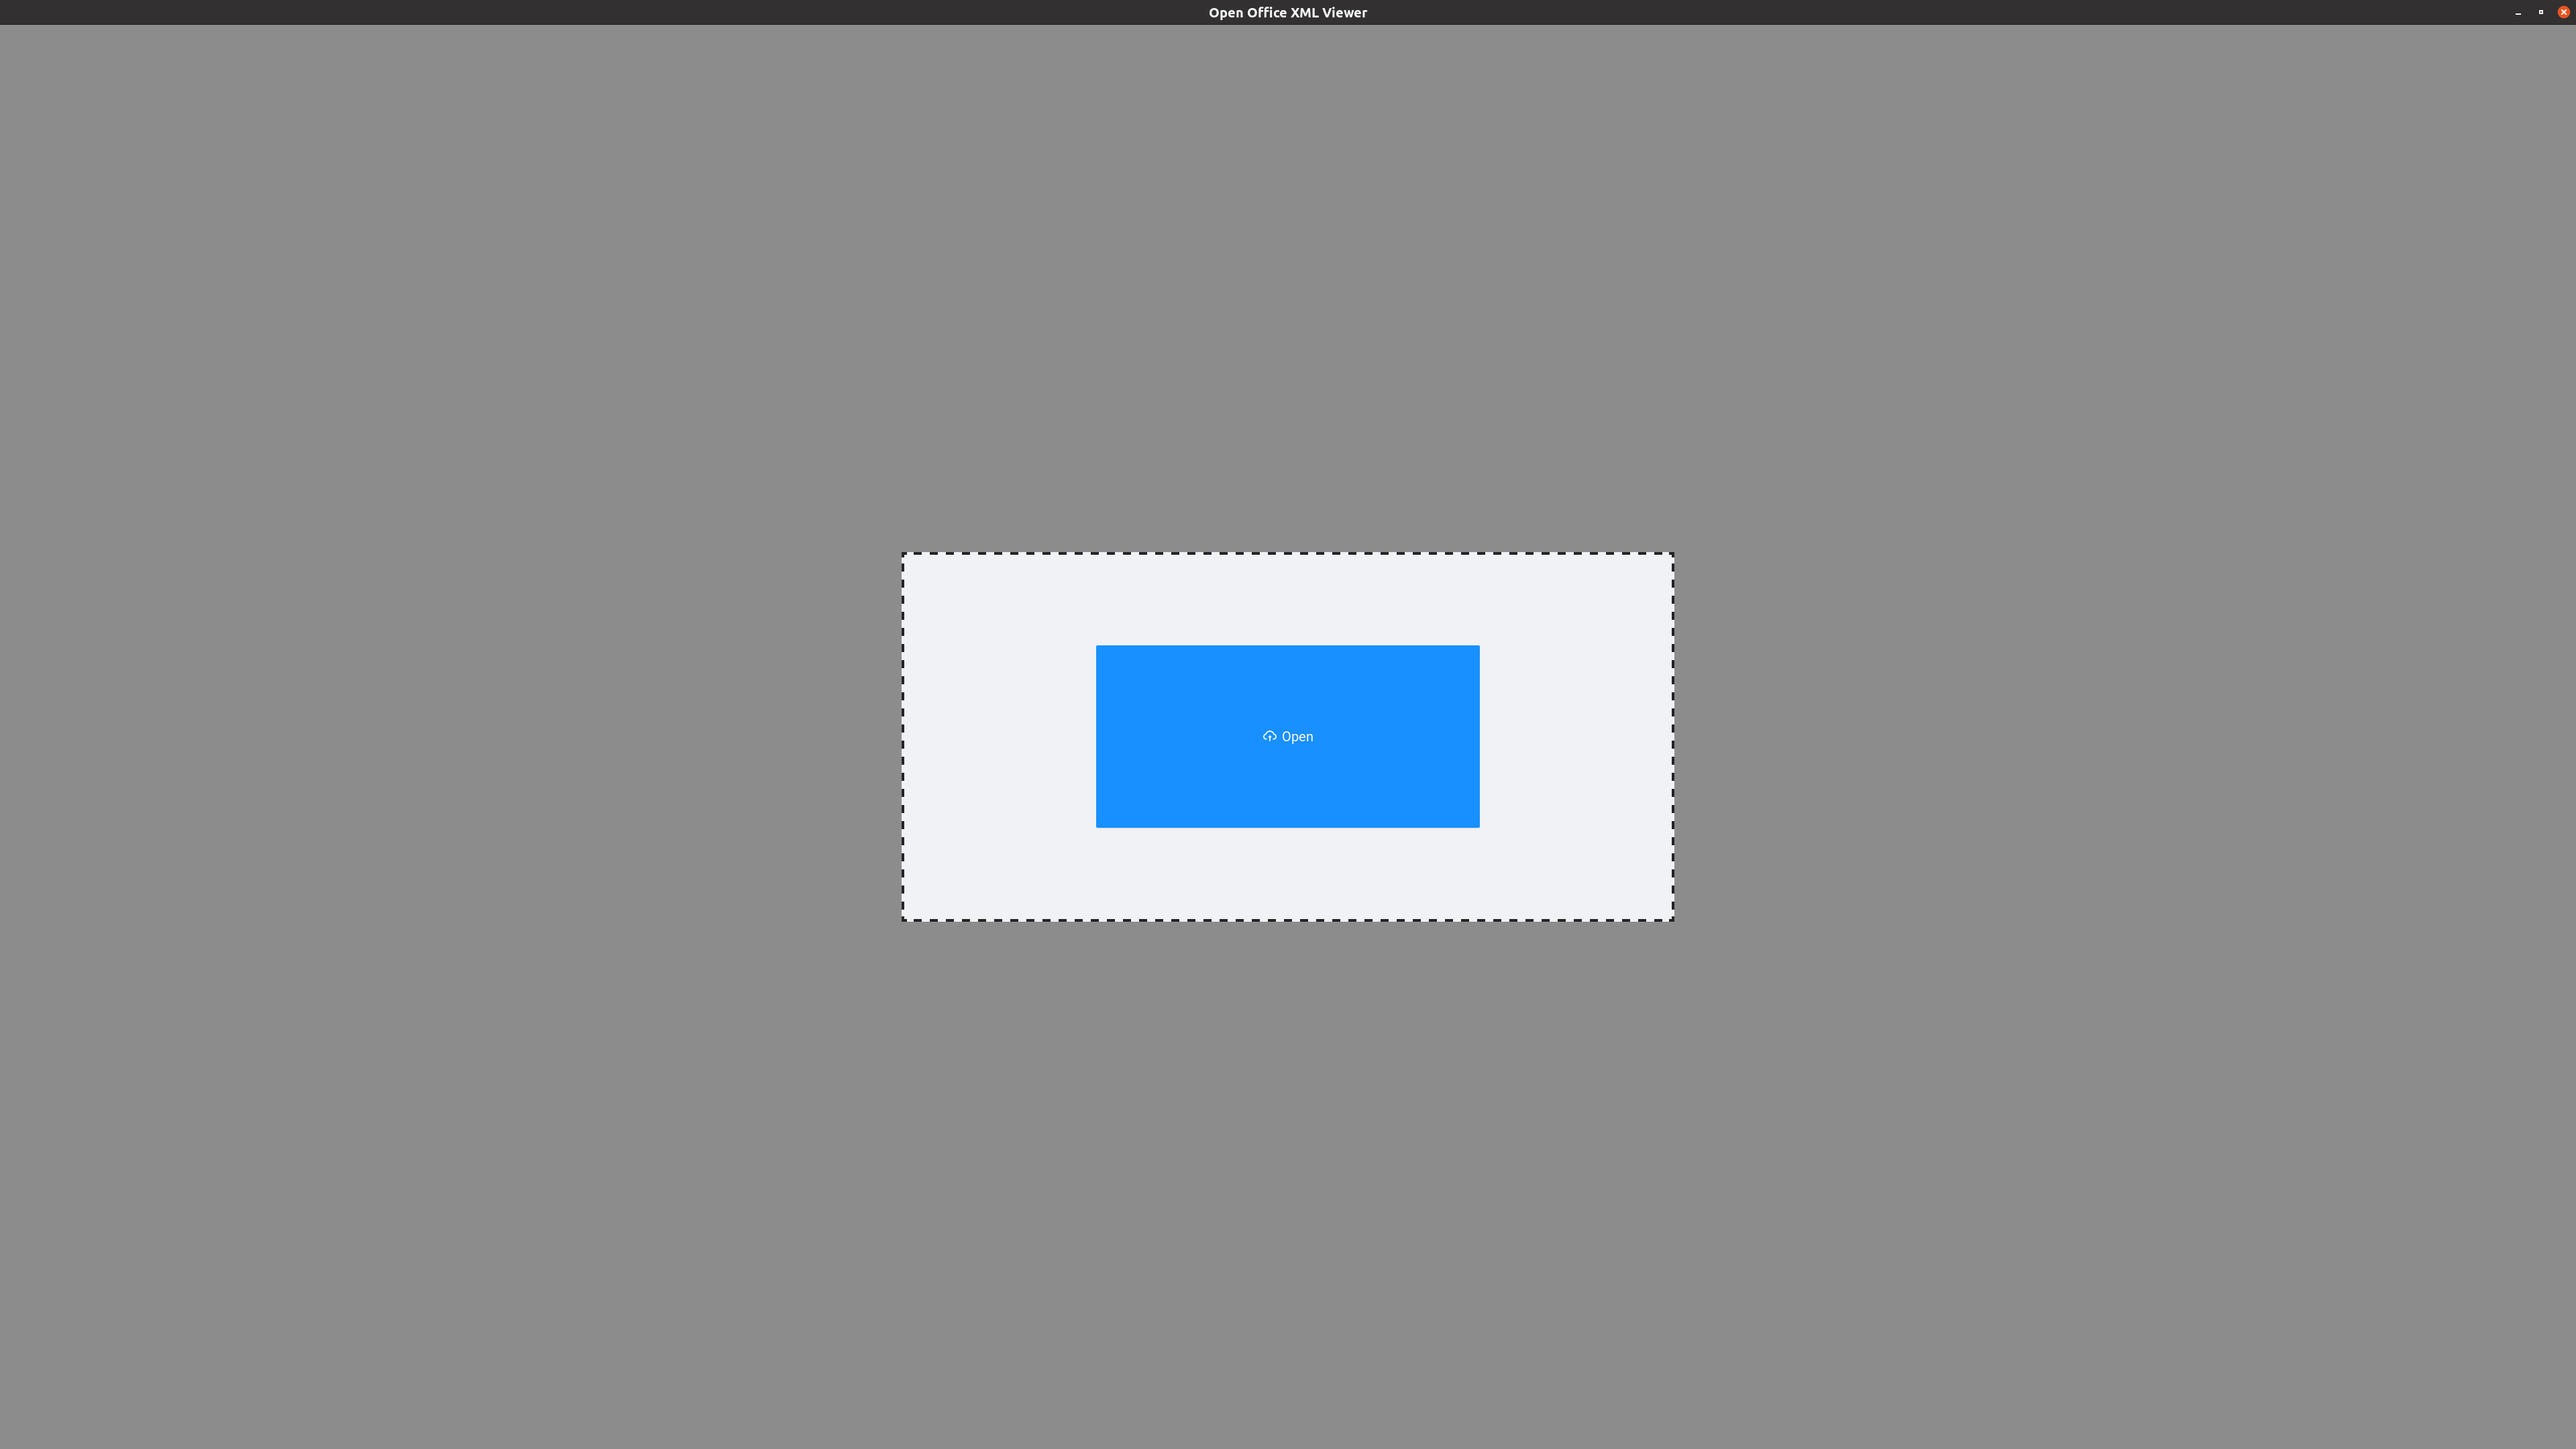
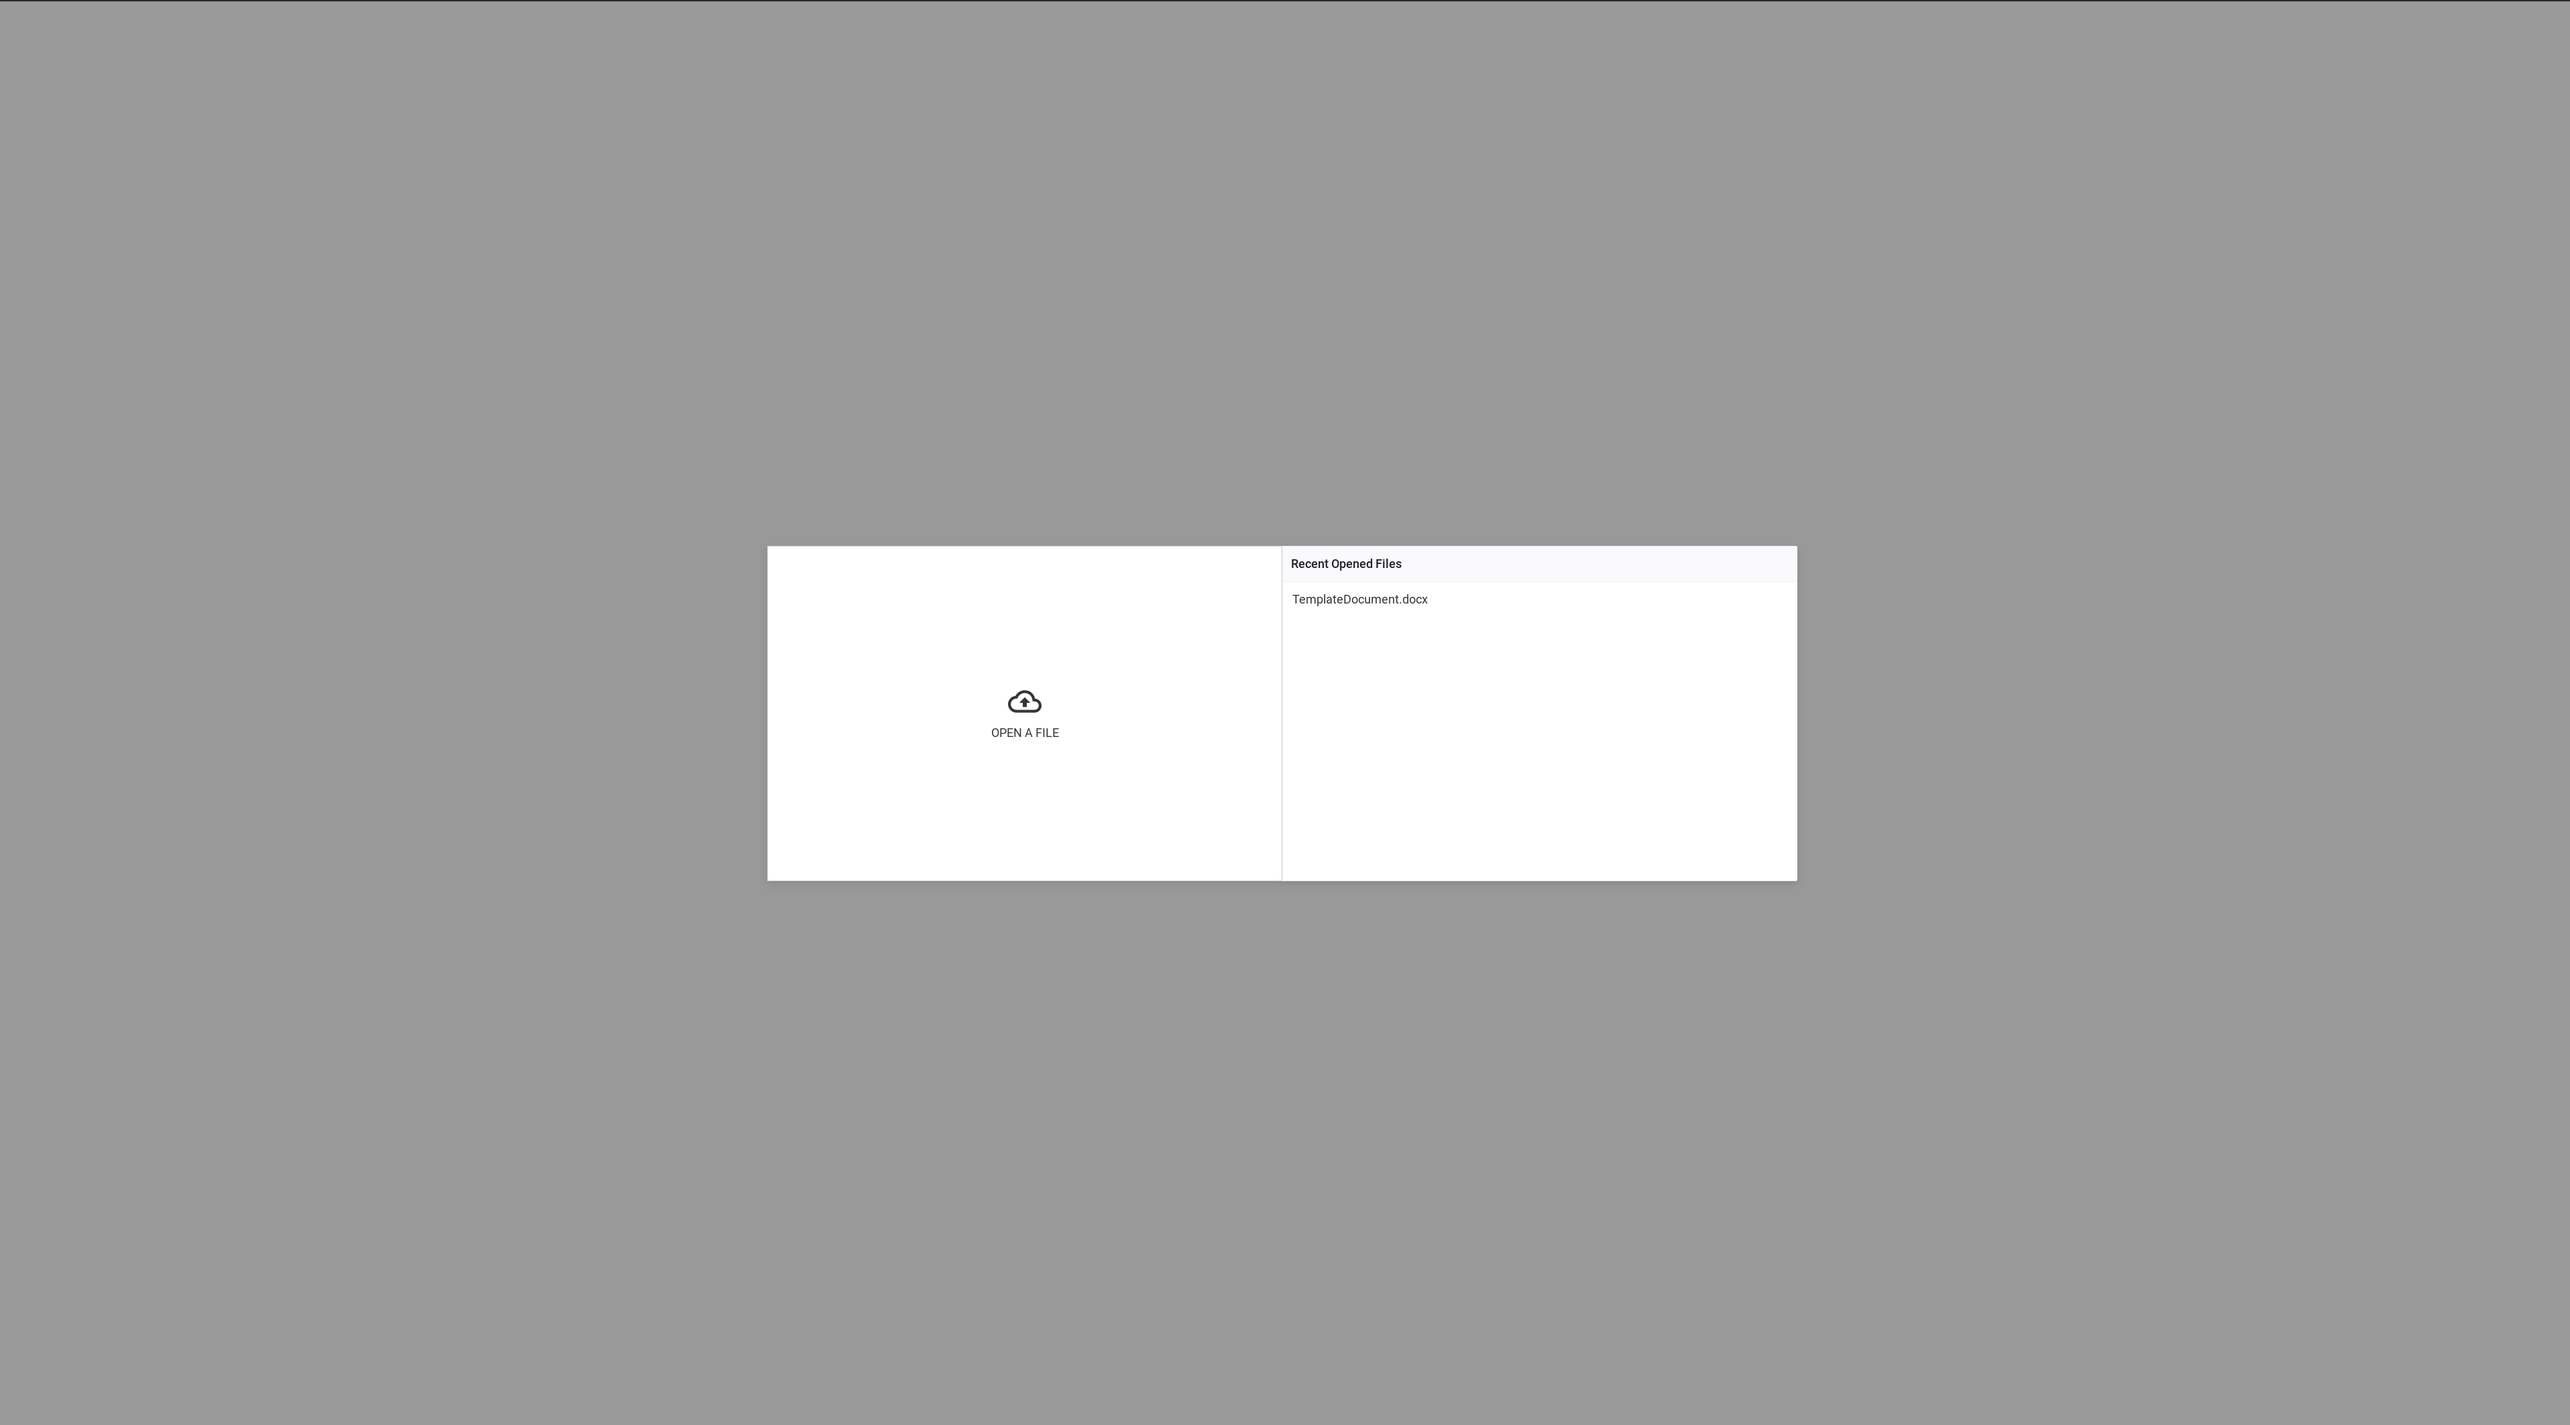
docs: add todo

Changed region(s): [[0.2795, 0.3727, 0.7142, 0.6522], [0.0, 0.0, 1.0, 0.0311], [0.4969, 0.3727, 0.559, 0.4038]]

diff --git a/README.md b/README.md
@@ -1,6 +1,11 @@
 # Open Office XML Viewer
-A tool to view office document easily,
+A tool to view office word docx document easily,
 based on [CodeMirror](https://github.com/codemirror/codemirror.next/) and [Tauri](https://github.com/tauri-apps/tauri).
+
+# TODO
+-[x] view xml part
+-[x] recent opened file list
+-[ ] view image part
 
 ## Open 
 ![Open](./src/assets/open.png)
